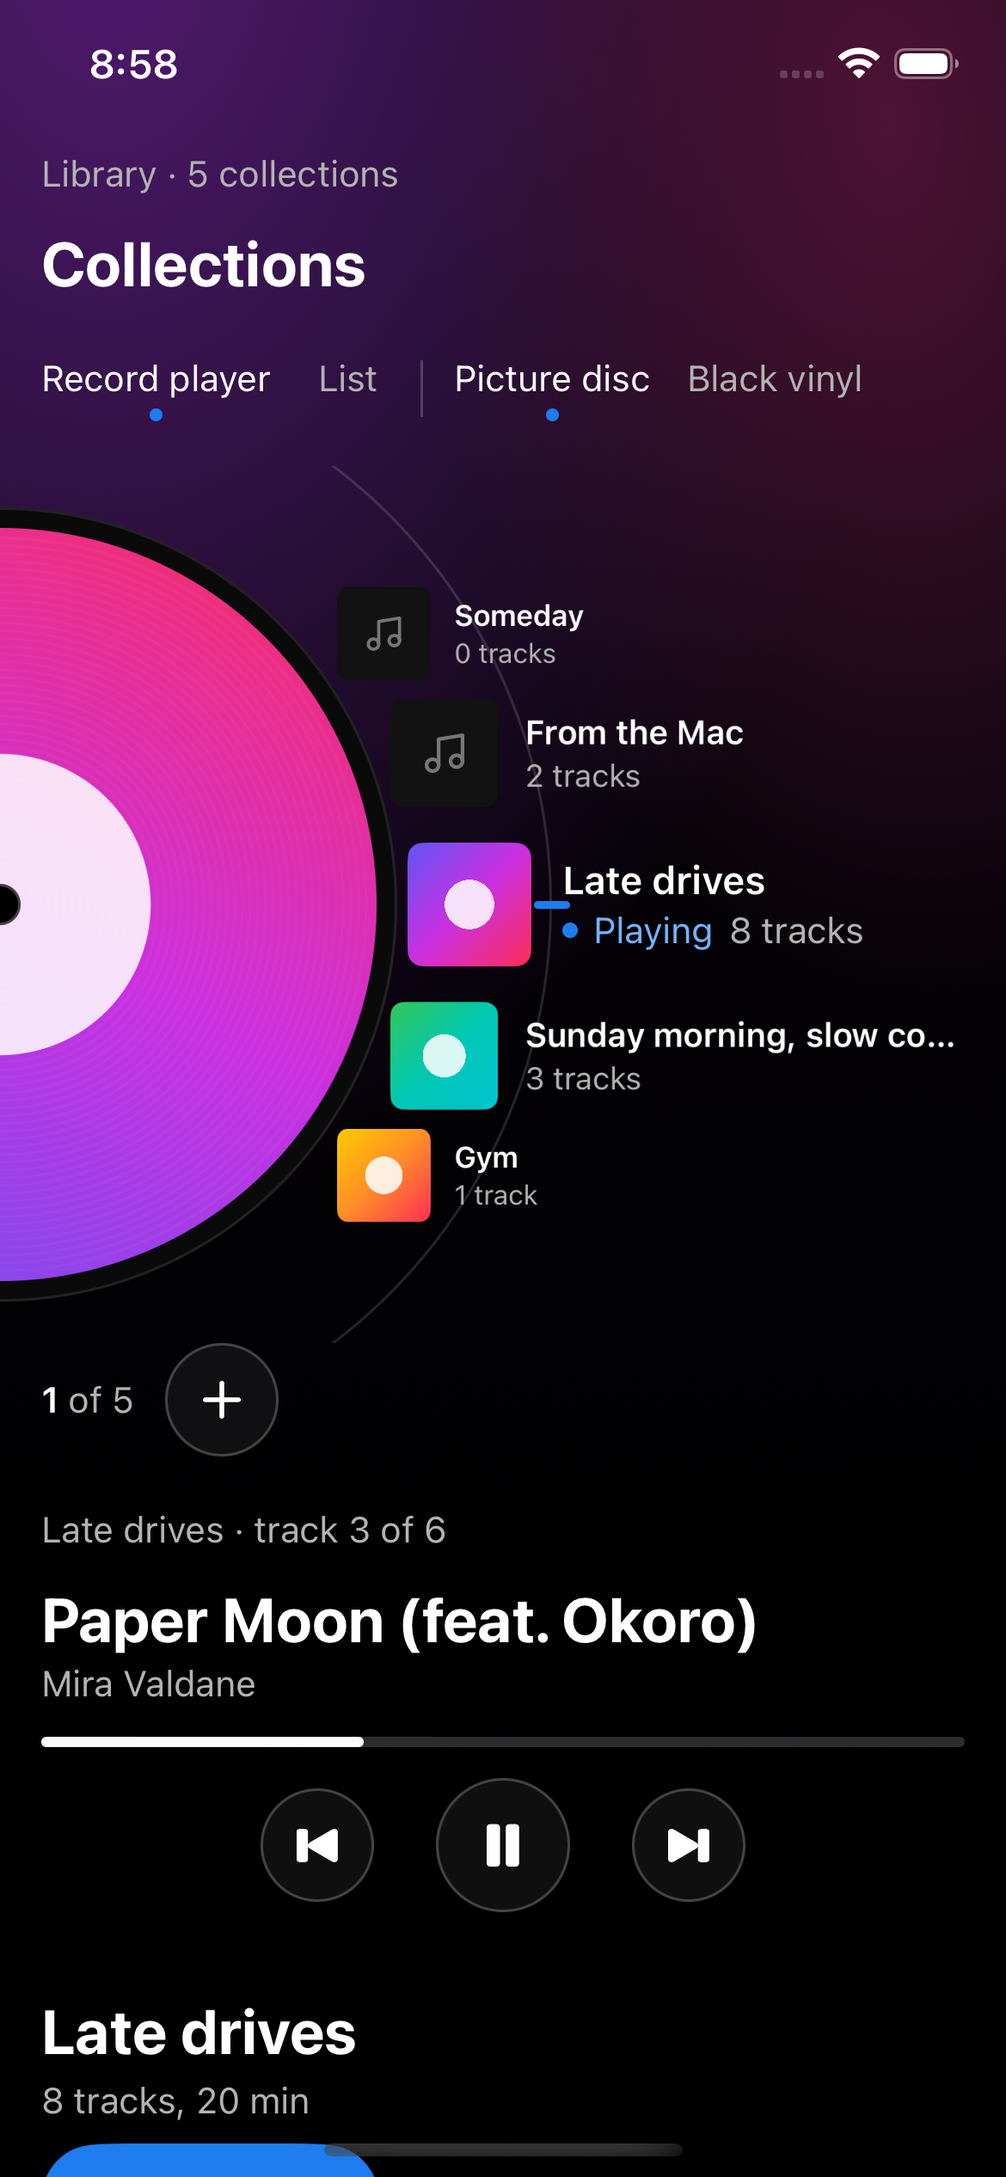
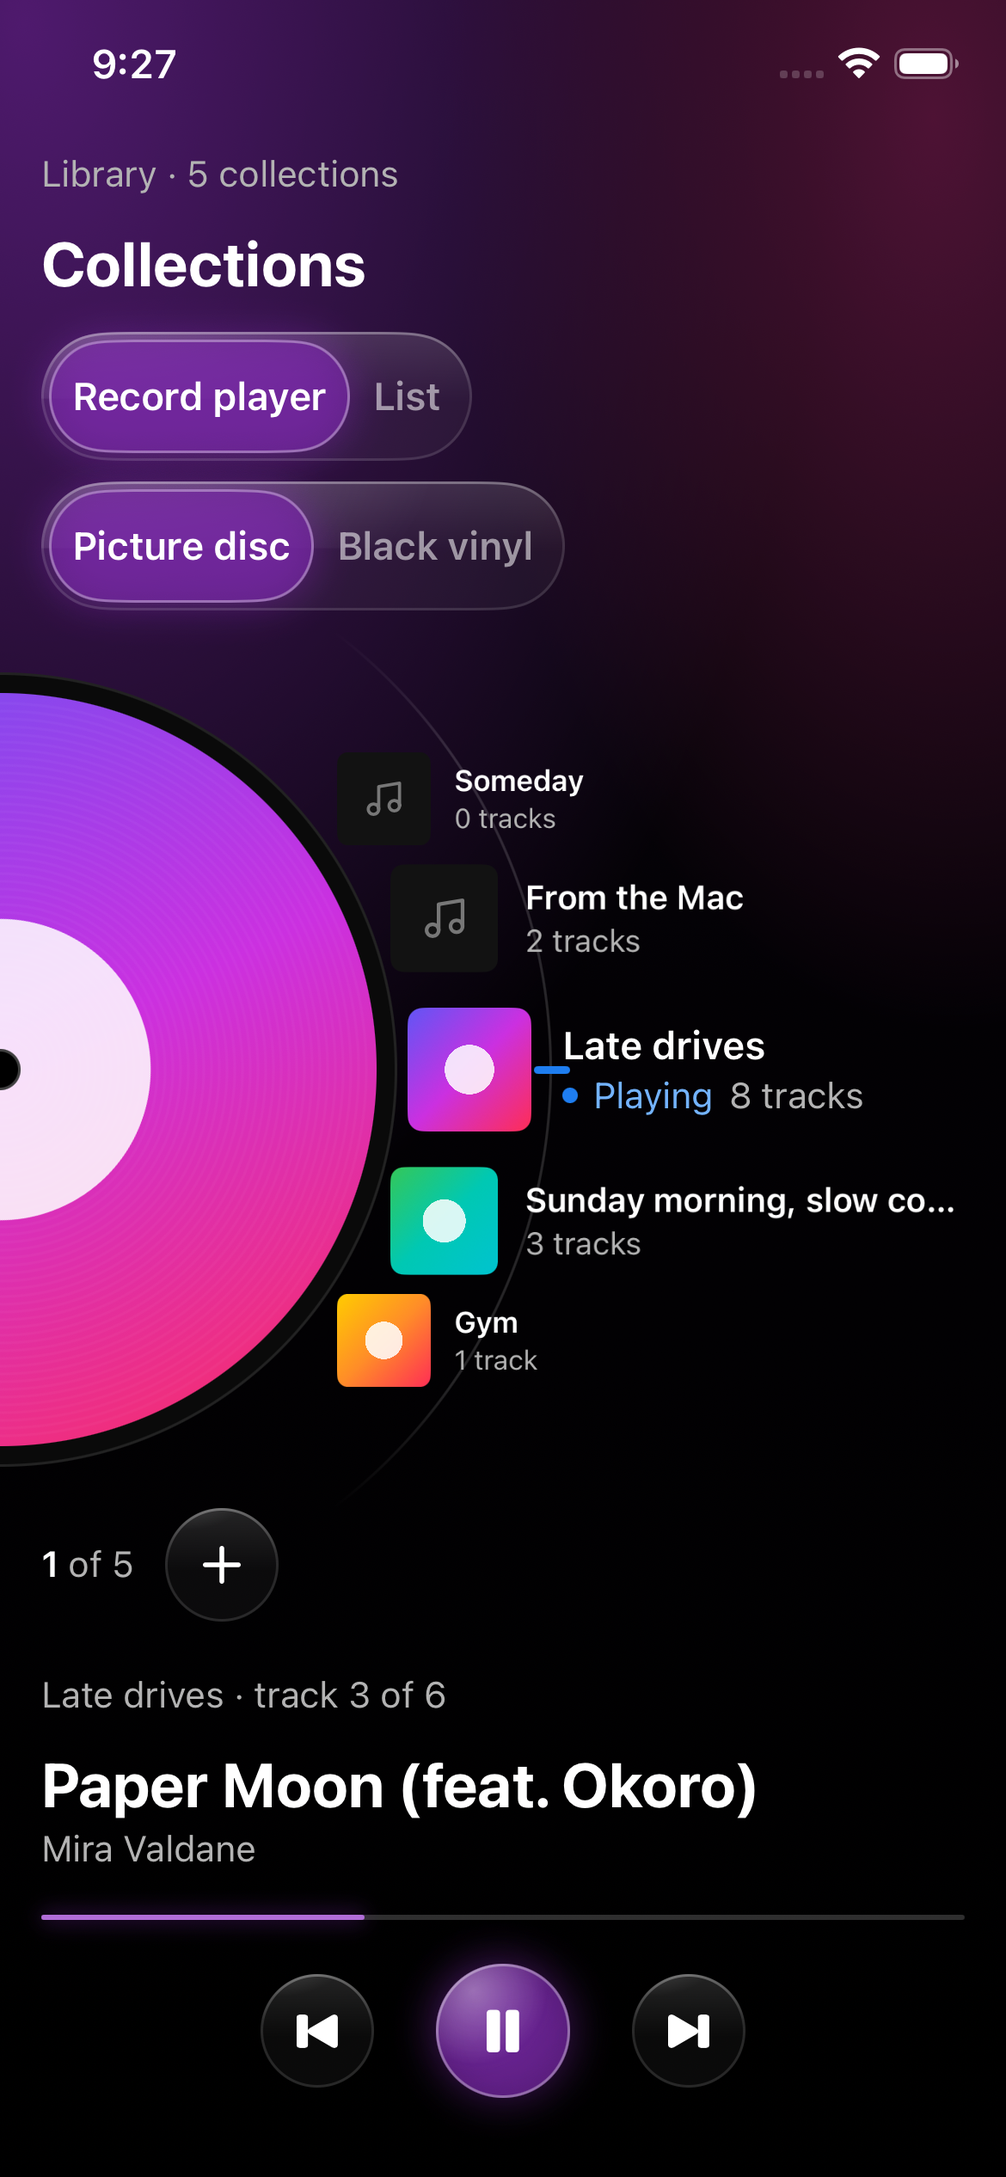
Collections player: cover-tinted glass controls, glass switches, fading wheel ring (#363)
Claude-Session: https://claude.ai/code/session_012sA8wJjj2BFG5nWg5W6h5h

diff --git a/apps/ios/Locally/Views/Collections/CollectionNowPlayingView.swift b/apps/ios/Locally/Views/Collections/CollectionNowPlayingView.swift
@@ -10,6 +10,8 @@ struct CollectionNowPlayingView: View {
     let sourceName: String?
     /// The playing collection's name when the wheel's front is another one; nil when they are the same or nothing plays.
     let backTo: String?
+    /// The playing cover's colour, for the play disc and the progress line (the accent when there is none).
+    var tint: Color = Theme.accent
     var onBack: () -> Void
 
     private var hasTrack: Bool { playback?.currentTrack != nil }
@@ -34,8 +36,7 @@ struct CollectionNowPlayingView: View {
                     .foregroundStyle(Theme.secondaryText)
             }
             ProgressView(value: playback?.progress ?? 0)
-                .progressViewStyle(.linear)
-                .tint(Theme.primaryText)
+                .progressViewStyle(TintedProgressStyle(tint: tint))
                 .accessibilityLabel(Copy.Collections.progressLabel)
             controls
             if let backTo {
@@ -56,13 +57,13 @@ struct CollectionNowPlayingView: View {
     private var controls: some View {
         HStack(spacing: 24) {
             Button(Copy.Collections.previousTrack, systemImage: "backward.end.fill") { playback?.previous() }
-                .buttonStyle(PlayerCircleStyle(size: 44))
+                .buttonStyle(PlayerGlassStyle(size: 44))
             Button(playback?.isPlaying == true ? Copy.Collections.pause : Copy.Collections.play, systemImage: playback?.isPlaying == true ? "pause.fill" : "play.fill") {
                 playback?.togglePlayPause()
             }
-            .buttonStyle(PlayerCircleStyle(size: 52))
+            .buttonStyle(PlayerDiscStyle(size: 52, tint: tint))
             Button(Copy.Collections.nextTrack, systemImage: "forward.end.fill") { playback?.next() }
-                .buttonStyle(PlayerCircleStyle(size: 44))
+                .buttonStyle(PlayerGlassStyle(size: 44))
         }
         .labelStyle(.iconOnly)
         .disabled(!hasTrack)
@@ -70,8 +71,8 @@ struct CollectionNowPlayingView: View {
     }
 }
 
-/// A round control: a faint fill and edge, at least `size` across (44 pt for the small ones, 52 for the main one).
-private struct PlayerCircleStyle: ButtonStyle {
+/// Previous / next: a glass circle with the round rim and a white glyph, at least `size` across.
+private struct PlayerGlassStyle: ButtonStyle {
     let size: CGFloat
     @Environment(\.isEnabled) private var isEnabled
     @ScaledMetric(relativeTo: .body) private var scale: CGFloat = 1
@@ -79,11 +80,67 @@ private struct PlayerCircleStyle: ButtonStyle {
     func makeBody(configuration: Configuration) -> some View {
         configuration.label
             .font(.system(size: size * 0.36, weight: .bold))
-            .foregroundStyle(Theme.primaryText)
+            .foregroundStyle(Color.white)
             .frame(width: size * min(scale, 1.6), height: size * min(scale, 1.6))
-            .background(Circle().fill(Theme.Immersive.panelFill))
-            .overlay(Circle().strokeBorder(Color.white.opacity(0.22), lineWidth: 1))
+            .background { GlowGlass().clipShape(Circle()) }
+            .overlay { GlowRim(round: true) }
             .contentShape(Circle())
             .opacity(isEnabled ? (configuration.isPressed ? 0.7 : 1) : 0.4)
+    }
+}
+
+/// Play / pause: the Glow switch's tinted thumb as a disc (dark base, the cover's colour, white rim, tinted shadow)
+/// with a specular highlight at the top left.
+private struct PlayerDiscStyle: ButtonStyle {
+    let size: CGFloat
+    let tint: Color
+    @Environment(\.isEnabled) private var isEnabled
+    @ScaledMetric(relativeTo: .body) private var scale: CGFloat = 1
+
+    func makeBody(configuration: Configuration) -> some View {
+        configuration.label
+            .font(.system(size: size * 0.36, weight: .bold))
+            .foregroundStyle(Color.white)
+            .frame(width: size * min(scale, 1.6), height: size * min(scale, 1.6))
+            .background { disc }
+            .contentShape(Circle())
+            .opacity(isEnabled ? (configuration.isPressed ? 0.7 : 1) : 0.4)
+    }
+
+    private var disc: some View {
+        // A dark base under the tint keeps the white glyph at 4.5:1 or better on a bright colour.
+        Circle()
+            .fill(Color.black.opacity(Theme.Import.kindThumbBase))
+            .overlay(Circle().fill(tint.opacity(0.55)))
+            .overlay {
+                Circle().fill(RadialGradient(
+                    colors: [.white.opacity(0.35), .clear], center: UnitPoint(x: 0.28, y: 0.2), startRadius: 0, endRadius: size * 0.55
+                ))
+            }
+            .overlay(Circle().strokeBorder(Color.white.opacity(0.35), lineWidth: 1))
+            .shadow(color: tint.opacity(0.5), radius: 8)
+    }
+}
+
+/// The progress line: a dim hairline for the track and the cover's colour, with a faint glow, for the played part. It
+/// keeps ProgressView's spoken value.
+private struct TintedProgressStyle: ProgressViewStyle {
+    let tint: Color
+
+    func makeBody(configuration: Configuration) -> some View {
+        let fraction = min(max(configuration.fractionCompleted ?? 0, 0), 1)
+        Capsule()
+            .fill(Color.white.opacity(0.18))
+            .frame(height: 2)
+            .overlay(alignment: .leading) {
+                GeometryReader { geo in
+                    Capsule()
+                        .fill(tint)
+                        .overlay(Capsule().fill(Color.white.opacity(0.3)))
+                        .frame(width: geo.size.width * fraction)
+                        .shadow(color: tint.opacity(0.6), radius: 4)
+                }
+            }
+            .frame(height: 12)
     }
 }

diff --git a/apps/ios/Locally/Views/Components/ComponentGallery.swift b/apps/ios/Locally/Views/Components/ComponentGallery.swift
@@ -40,7 +40,9 @@ struct ComponentGallery: View {
         "collections-library", "collections-screen", "collections-queue", "collections-edit", "collections-empty", "collections-queue-ax", "collections-add", "collections-playing", "collections-add-failed", "collections-wont-play", "collections-playlist-guide", "collections-none-here",
         // #352: the record player on the Collections screen, over seeded collections and a player on fakes.
         "collections-player-playing", "collections-player-browsing", "collections-player-paused", "collections-player-vinyl", "collections-player-reduce-motion",
-        "collections-player-ax", "collections-player-narrow", "collections-player-empty", "collections-player-wont-play", "collections-player-many", "collections-player-single", "collections-player-ax-lower", "collections-player-ax-controls", "collections-player-narrow-lower"]
+        "collections-player-ax", "collections-player-narrow", "collections-player-empty", "collections-player-wont-play", "collections-player-many", "collections-player-single", "collections-player-ax-lower", "collections-player-ax-controls", "collections-player-narrow-lower",
+        // #363: the cover-tinted glass controls, a bright cover in front, and accessibility3 text.
+        "player-bright", "player-ax3"]
 
     let name: String
     @State private var title = "Midnight Drive"
@@ -261,6 +263,10 @@ struct ComponentGallery: View {
             CollectionsPlayingGallery()
         case "collections-player-playing", "collections-player-ax":
             CollectionsPlayerGallery()
+        case "player-bright":
+            CollectionsPlayerGallery(brightFront: true, scrollsTo: CollectionsPlayerView.nowPlayingID)
+        case "player-ax3":
+            CollectionsPlayerGallery().dynamicTypeSize(.accessibility3)
         case "collections-player-browsing":
             CollectionsPlayerGallery(browsing: true)
         case "collections-player-paused":
@@ -1463,9 +1469,11 @@ private struct CollectionsPlayerGallery: View {
     var many = 0
     /// Only the first collection, so the wheel has nothing to turn (#363).
     var single = false
+    /// The wheel is on "Gym", a bright cover, while "Late drives" plays (#363).
+    var brightFront = false
     @State private var built: (container: AppContainer, model: CollectionsModel, playback: PlaybackService)
 
-    init(reduceMotion: Bool = false, scrollsTo: String? = nil, seed: Bool = true, playing: Bool = true, paused: Bool = false, browsing: Bool = false, vinyl: Bool = false, missingFirst: Bool = false, many: Int = 0, single: Bool = false) {
+    init(brightFront: Bool = false, reduceMotion: Bool = false, scrollsTo: String? = nil, seed: Bool = true, playing: Bool = true, paused: Bool = false, browsing: Bool = false, vinyl: Bool = false, missingFirst: Bool = false, many: Int = 0, single: Bool = false) {
         self.seed = seed
         self.playing = playing
         self.paused = paused
@@ -1474,6 +1482,7 @@ private struct CollectionsPlayerGallery: View {
         self.missingFirst = missingFirst
         self.many = many
         self.single = single
+        self.brightFront = brightFront
         UserDefaults.standard.set(reduceMotion, forKey: WheelMotion.debugReduceMotionKey)
         UserDefaults.standard.set(scrollsTo ?? "", forKey: CollectionsPlayerView.debugScrollKey)
         UserDefaults.standard.set(vinyl ? SpinningRecord.vinyl.rawValue : SpinningRecord.picture.rawValue, forKey: CollectionsViewPrefs.recordKey)
@@ -1483,7 +1492,7 @@ private struct CollectionsPlayerGallery: View {
 
     var body: some View {
         IconsGallery.environment(
-            NavigationStack { CollectionsView(model: built.model, onOpen: { _ in }, startsOn: browsing ? built.model.collections.dropFirst(3).first?.id : nil) }
+            NavigationStack { CollectionsView(model: built.model, onOpen: { _ in }, startsOn: browsing ? built.model.collections.dropFirst(3).first?.id : brightFront ? built.model.collections.dropFirst(2).first?.id : nil) }
                 .environment(\.playback, built.playback),
             built.container
         )

diff --git a/apps/ios/Locally/Views/Collections/CollectionsModeSwitches.swift b/apps/ios/Locally/Views/Collections/CollectionsModeSwitches.swift
@@ -1,36 +1,44 @@
 import SwiftUI
 
 /// The two per-device choices at the top of the Collections screen (#352): Record player / List, and (in the record
-/// player) Picture disc / Black vinyl, as one row of plain words with a dot under the chosen one and a thin divider
-/// between the groups. The row drops to two lines only when it doesn't fit. Both are remembered by the screen that
-/// owns the bindings.
+/// player) Picture disc / Black vinyl, as house glass switches (`GlowSwitch`, compact) whose thumbs take the cover's
+/// colour (#363). Side by side when they fit, else stacked; at the accessibility sizes each switch stacks its own
+/// words. Both are remembered by the screen that owns the bindings.
 struct CollectionsModeSwitches: View {
     @Binding var mode: CollectionsViewMode
     @Binding var record: SpinningRecord
+    /// The thumbs' colour: the front cover's, else the accent.
+    var tint: Color = Theme.accent
 
-    private static let modes: [(value: CollectionsViewMode, label: String)] = [
-        (.player, Copy.Collections.viewRecordPlayer), (.list, Copy.Collections.viewList),
+    private static let modes: [(value: CollectionsViewMode, icon: String?, label: String)] = [
+        (.player, nil, Copy.Collections.viewRecordPlayer), (.list, nil, Copy.Collections.viewList),
     ]
-    private static let records: [(value: SpinningRecord, label: String)] = [
-        (.picture, Copy.Collections.pictureDisc), (.vinyl, Copy.Collections.blackVinyl),
+    private static let records: [(value: SpinningRecord, icon: String?, label: String)] = [
+        (.picture, nil, Copy.Collections.pictureDisc), (.vinyl, nil, Copy.Collections.blackVinyl),
     ]
+
+    private var modeSwitch: some View {
+        GlowSwitch(options: Self.modes, selection: $mode, tint: tint, compact: true)
+            .accessibilityElement(children: .contain)
+            .accessibilityLabel(Copy.Collections.viewSwitchName)
+    }
+
+    private var recordSwitch: some View {
+        GlowSwitch(options: Self.records, selection: $record, tint: tint, compact: true)
+            .accessibilityElement(children: .contain)
+            .accessibilityLabel(Copy.Collections.recordSwitchName)
+    }
 
     var body: some View {
         ViewThatFits(in: .horizontal) {
-            HStack(spacing: 6) {
-                DotSwitch(name: Copy.Collections.viewSwitchName, options: Self.modes, selection: $mode)
-                if mode == .player {
-                    Rectangle().fill(Color.white.opacity(0.2)).frame(width: 1, height: 22).accessibilityHidden(true)
-                    DotSwitch(name: Copy.Collections.recordSwitchName, options: Self.records, selection: $record)
-                }
+            HStack(spacing: 8) {
+                modeSwitch
+                if mode == .player { recordSwitch }
             }
-            VStack(alignment: .leading, spacing: 0) {
-                DotSwitch(name: Copy.Collections.viewSwitchName, options: Self.modes, selection: $mode)
-                if mode == .player {
-                    DotSwitch(name: Copy.Collections.recordSwitchName, options: Self.records, selection: $record)
-                }
+            VStack(alignment: .leading, spacing: 8) {
+                modeSwitch
+                if mode == .player { recordSwitch }
             }
         }
-        .padding(.horizontal, -6)
     }
 }

diff --git a/apps/ios/Locally/Views/Collections/CollectionsPlayerView.swift b/apps/ios/Locally/Views/Collections/CollectionsPlayerView.swift
@@ -76,6 +76,9 @@ struct CollectionsPlayerView: View {
         palette = await Task.detached(priority: .utility) { ArtworkPalette.palette(forCover: store.load(id)) }.value
     }
 
+    /// The cover's colour for the controls: the same palette as the backdrop, else the accent.
+    private var tint: Color { palette.map { Theme.coverGlowColors($0)[0] } ?? Theme.accent }
+
     private var frontIndex: Int { frontID.flatMap { id in model.summaries.firstIndex { $0.id == id } } ?? 0 }
 
     var body: some View {
@@ -94,7 +97,7 @@ struct CollectionsPlayerView: View {
                         .themeFont(.pageTitle)
                         .foregroundStyle(Theme.primaryText)
                         .accessibilityAddTraits(.isHeader)
-                    CollectionsModeSwitches(mode: $mode, record: $record)
+                    CollectionsModeSwitches(mode: $mode, record: $record, tint: tint)
                 }
                 .padding(.horizontal, Theme.Spacing.listPagePadding)
                 .padding(.top, 12)
@@ -114,7 +117,7 @@ struct CollectionsPlayerView: View {
                 CollectionNowPlayingView(
                     playback: playback, sourceName: playingID.flatMap { model.summary($0)?.name },
                     backTo: playingID.flatMap { $0 == frontID ? nil : model.summary($0)?.name },
-                    onBack: { frontID = playingID }
+                    tint: tint, onBack: { frontID = playingID }
                 )
                 .padding(.horizontal, Theme.Spacing.listPagePadding)
                 .padding(.top, 20)
@@ -172,8 +175,8 @@ struct CollectionsPlayerView: View {
                 LocallyIcon(.plus, size: 22, relativeTo: .body)
                     .foregroundStyle(Theme.primaryText)
                     .frame(width: 44, height: 44)
-                    .background(Circle().fill(Theme.Immersive.panelFill))
-                    .overlay(Circle().strokeBorder(Color.white.opacity(0.22), lineWidth: 1))
+                    .background { GlowGlass().clipShape(Circle()) }
+                    .overlay { GlowRim(round: true) }
                     .contentShape(Circle())
             }
             .buttonStyle(.plain)

diff --git a/apps/ios/Locally/Views/Collections/RecordWheelView.swift b/apps/ios/Locally/Views/Collections/RecordWheelView.swift
@@ -106,11 +106,26 @@ struct RecordWheelView: View {
         )
     }
 
+    /// The ring is cut by the wheel's frame at ±height/2; this dissolves its last ~18 degrees there instead.
+    private static var ringFade: some View {
+        let half = height / 2
+        let clear = (ringRadius - half) / (ringRadius * 2)
+        let solid = (ringRadius - ringRadius * sin(asin(half / ringRadius) - 18 * .pi / 180)) / (ringRadius * 2)
+        return LinearGradient(
+            stops: [
+                .init(color: .clear, location: clear), .init(color: .black, location: solid),
+                .init(color: .black, location: 1 - solid), .init(color: .clear, location: 1 - clear),
+            ],
+            startPoint: .top, endPoint: .bottom
+        )
+    }
+
     private func dial(width: CGFloat) -> some View {
         ZStack(alignment: .leading) {
             Circle()
                 .strokeBorder(Color.white.opacity(0.14), lineWidth: 1)
                 .frame(width: Self.ringRadius * 2, height: Self.ringRadius * 2)
+                .mask { Self.ringFade }
                 .offset(x: -Self.ringRadius)
             HubRecordView(releaseID: hubReleaseID, style: style, isSpinning: spins)
                 .offset(x: -Theme.Immersive.hubRadius)

diff --git a/docs/design.md b/docs/design.md
@@ -925,6 +925,7 @@ Previews: `docs/design-previews/339-mac/` (1280 and 900 wide: `playing`, plus `n
 Previews: `docs/design-previews/339-ios/` (`player-<case>.png`, from the gallery's `collections-player-*` cases). Target look: `docs/design-previews/339/phone-record-player*.png`. The Mac's half is #351; the maths is a port of its `record-player.ts` into `Domain/RecordWheel.swift`.
 
 - **Switches.** Plain words with a 5 pt accent dot under the chosen one, as in the target: "Record player · List | Picture disc · Black vinyl", a thin divider between the groups (`DotSwitch`, `CollectionsModeSwitches`). Each word is a button with a 44 x 44 pt hit area and `.isSelected`; each group reads its name ("View", "Spinning record"). The text is `body`, stops growing at `xxxLarge`, and the row wraps to two lines only when it doesn't fit (320 pt, the largest text). The record group shows only in the record player. Both choices are remembered per device (`locally.collections.view`, `locally.collections.record`); hidden with no collections. The List view is unchanged.
+- **Glass controls (#363).** The two switches are the house `GlowSwitch` (compact), side by side when they fit at 390 pt, else stacked, each stacking its own words at the accessibility sizes; their thumbs, the play / pause disc (the thumb recipe on a circle with a top-left highlight) and the played part of the progress line (with a faint glow) take the front cover's colour (the palette behind the wash; accent when none). Previous, next and + are `GlowGlass` circles with the round `GlowRim`. The wheel's ring dissolves over its last 18 degrees at the top and bottom. Frames: `docs/design-previews/363-ios/` (`after`, `player-bright`, `player-ax3`). This supersedes the plain-words description above.
 - **The wheel.** The hub (the playing record, radius 154 with an 8 pt dark platter rim) sits on the left edge; rows ride the right half of a dial of radius 182. A row is a 48 pt `CollectionCoverView`, the name (`rowTitle`, one line, an ellipsis that ends 16 pt inside the screen) and "27 tracks" (`meta`), level, 64 pt apart at the front, each step 0.87 of the last, fading past 0.85 rad (about 49 degrees) so about seven show. A thin ring (radius 214) and a 14 x 3 accent notch mark the front. Only the window of 15 indexes around the front is built, keyed by collection id; placement is `offset`, `scaleEffect` and `opacity` only, and the rows are an `Animatable` view so a snap re-places just those rows. The playing collection's row says "Playing" or "Paused" in `Tint.accentText`, on one line with the count or, when the room is short (320 pt), the state above the count (only the name may end in an ellipsis) (4.5:1 on black; `accent` itself is 4.0:1), from the player's state. Under it, at the left: "1 of 24" and a 44 pt + (New collection).
 - **The hub record.** Picture disc: the playing track's cover edge to edge, faint grooves, a 16 pt centre hole. Black vinyl: black with grooves and the cover as a 36 % label. Nothing playing: a bare black record. It always shows the playing track, turns at 200 degrees a second (33 1/3 rpm) only while playing, keeps its angle when paused (the angle is accumulated across pauses), and the two looks are two layers cross-faded in place (0.3 s) so nothing remounts and the turn never restarts.
 - **Gestures.** A vertical drag that starts on the wheel turns it (one row per 64 pt); on release it snaps to the nearest row, from the predicted end translation for a flick (at most 8 rows), on `.timingCurve(0.16, 1, 0.3, 1)` over 0.45 s (0.55 s for a tap or an adjust). A drag anywhere else scrolls the page. A light selection haptic on each change of the front row. Every row is a button with a 44 pt hit area however small it is drawn.
